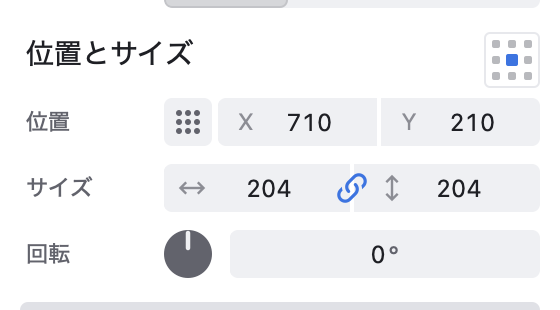
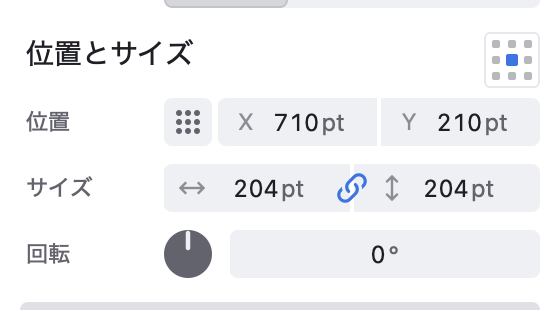
ガイドと作業記録を更新（いまの制限の6項目：複合パス・SVG/PDF・整列/ロック/スマートガイド・不透明度/グラデーション・文字の設定・単位）
Claude-Session: https://claude.ai/code/session_01QqFg8BnMqcqZtVewoFgnhn

diff --git a/docs/guide.html b/docs/guide.html
@@ -180,7 +180,7 @@ ol.legend li b {display: block; color: var(--fg); font-weight: 600}
       </ul>
       <h2>まとめる</h2>
       <ul>
-        <li><a href="#organize">レイヤー・ガイド・吸着</a></li>
+        <li><a href="#organize">レイヤー・吸着・整列</a></li>
         <li><a href="#combine">パスファインダー・ブレンド</a></li>
         <li><a href="#place">読み込み・画像</a></li>
         <li><a href="#export">アートボード・書き出し</a></li>
@@ -288,8 +288,9 @@ ol.legend li b {display: block; color: var(--fg); font-weight: 600}
             <tr><td>クリックして打つ</td><td>クリックした所が1行目の基準線。日本語入力もそのまま使えます</td></tr>
             <tr><td><kbd>Esc</kbd> / ほかをクリック</td><td>確定。空なら何も残らない</td></tr>
             <tr><td>選択ツールで文字をダブルクリック</td><td>打ち直す</td></tr>
-            <tr><td>右パネル</td><td>フォント（検索できる）・サイズ・行送り</td></tr>
-            <tr><td><kbd>⇧</kbd><kbd>⌘</kbd><kbd>O</kbd></td><td>アウトライン化（ただの形になり、打ち直せなくなる）</td></tr>
+            <tr><td>右パネル</td><td>フォント（検索できる）・サイズ・行送り・揃え（左・中央・右・均等）・字送り（1/1000 em）・ベースライン・カーニング</td></tr>
+            <tr><td>文字ツールでパスの線をクリック</td><td>パスに沿って打つ。文字とパスを選んで「パスに沿わせる」でも。パスを直すと文字もついてくる。右パネルで「パス上の位置」と「反対側」、「パスから外す」で普通の文字に戻る（パスを消しても戻る）</td></tr>
+            <tr><td><kbd>⇧</kbd><kbd>⌘</kbd><kbd>O</kbd></td><td>アウトライン化。文字ごとに複合パスになり、アンカーとハンドルを直せる（o や 8 の中は穴）。打ち直せなくなる</td></tr>
           </tbody></table></div>
           <p>文字の形にも塗り・線・外観ノードがそのまま効きます。</p>
         </div>
@@ -403,6 +404,9 @@ ol.legend li b {display: block; color: var(--fg); font-weight: 600}
             <tr><td>右パネルの「塗り」「線」</td><td>色見本と16進の欄。「なし — 追加」で付ける、<kbd>−</kbd> でなしにする</td></tr>
             <tr><td>色見本をクリック</td><td>色のパレット（色の面・色相・プリセット）</td></tr>
             <tr><td>色見本をドラッグ</td><td>その場で色の面が出て、離すと決まる。ドラッグ中に <kbd>H</kbd> <kbd>S</kbd> <kbd>V</kbd> <kbd>R</kbd> <kbd>G</kbd> <kbd>B</kbd> で動かす成分を切り替え</td></tr>
+            <tr><td>色の欄の「%」</td><td>その色の不透明度（塗りと線で別々）</td></tr>
+            <tr><td>「単色・線形・円形」</td><td>グラデーションにする。帯をクリックで色を足す、色の点を左右にドラッグで位置、下へドラッグで消す。「分岐点」で選んだ点の色と不透明度、「角度」で向き</td></tr>
+            <tr><td>ダイレクト選択（<kbd>A</kbd>）でパスを1つ選ぶ</td><td>キャンバスにグラデーションのつまみが出る。線形は始点・終点、円形は中心と半径をドラッグ（<kbd>Shift</kbd> で角度を刻む）。パスを動かす・回すとグラデーションもついてくる</td></tr>
           </tbody></table></div>
         </div>
         <p>数値の欄はどれも、左右にドラッグして値を変えられます。<kbd>Option</kbd> で1/10の細かさ、<kbd>Shift</kbd> で10倍。クリックすれば数字や式を打てます。</p>
@@ -467,7 +471,7 @@ ol.legend li b {display: block; color: var(--fg); font-weight: 600}
       </section>
 
       <section id="organize">
-        <header><p class="eyebrow">まとめる</p><h2>レイヤー・ガイド・吸着</h2></header>
+        <header><p class="eyebrow">まとめる</p><h2>レイヤー・吸着・整列</h2></header>
         <div class="block">
           <div class="head"><h3>レイヤーとフォルダ</h3></div>
           <div class="scroll"><table><tbody>
@@ -475,6 +479,7 @@ ol.legend li b {display: block; color: var(--fg); font-weight: 600}
             <tr><td>行をドラッグ</td><td>重ね順を変える・フォルダへ出し入れ（フォルダの中にフォルダも置ける）</td></tr>
             <tr><td>行をダブルクリック</td><td>名前を変える</td></tr>
             <tr><td>目のマーク</td><td>表示・非表示（非表示は書き出されない）</td></tr>
+            <tr><td>鍵のマーク（目の隣）/ <kbd>⌘</kbd><kbd>2</kbd> / <kbd>⌥</kbd><kbd>⌘</kbd><kbd>2</kbd></td><td>ロック / すべて解除。ロックした物は描かれ書き出されるが、キャンバスで選ぶ・動かす・直すことはできない。フォルダのロックは中身すべてに効く</td></tr>
             <tr><td>右クリック →「重ね順」</td><td>最前面・前面・背面・最背面</td></tr>
           </tbody></table></div>
         </div>
@@ -483,10 +488,19 @@ ol.legend li b {display: block; color: var(--fg); font-weight: 600}
           <div class="scroll"><table><tbody>
             <tr><td>定規からキャンバスへドラッグ</td><td>ガイドを引く。定規へ戻すと消える</td></tr>
             <tr><td><kbd>⌘</kbd><kbd>5</kbd> / <kbd>⌥</kbd><kbd>⌘</kbd><kbd>5</kbd></td><td>選んだパスをガイドにする / 戻す（細い線で表示され、書き出されない）</td></tr>
-            <tr><td>吸着バー（キャンバス左下）</td><td>ガイド・グリッド・接線・法線に吸着するか</td></tr>
+            <tr><td>吸着バー（キャンバス左下）</td><td>スマート・ガイド・グリッド・接線・法線に吸着するか</td></tr>
+            <tr><td>スマートガイド <kbd>⌘</kbd><kbd>U</kbd></td><td>動かす・拡大縮小・アンカーを引くとき、ほかの物やアートボードの端と中心に吸い付き、マゼンタの線が出る</td></tr>
             <tr><td><kbd>⌘</kbd><kbd>'</kbd> / <kbd>⌘</kbd><kbd>;</kbd></td><td>グリッドを表示して吸着 / ガイドに吸着</td></tr>
             <tr><td>ドラッグ中に <kbd>Ctrl</kbd></td><td>一時的に吸着しない</td></tr>
             <tr><td>右パネルの「グリッド・ガイド」タブ</td><td>グリッドの間隔、<kbd>Shift</kbd> で刻む角度</td></tr>
+          </tbody></table></div>
+        </div>
+        <div class="block">
+          <div class="head"><h3>整列・分布</h3></div>
+          <div class="scroll"><table><tbody>
+            <tr><td>右パネル「位置とサイズ」の下</td><td>整列（左・左右中央・右・上・上下中央・下）と分布（中心を等間隔・間を等しく）。1回で取り消せる</td></tr>
+            <tr><td>基準</td><td>選択範囲 / キー（最後にクリックした物。枠が太くなる。「間隔」で隙間を数値で） / アートボード。1つだけ選んでいるときはアートボードに揃える</td></tr>
+            <tr><td>まとまりで動くもの</td><td>中身を全部選んだフォルダ、両端を選んだブレンド、複合パス</td></tr>
           </tbody></table></div>
         </div>
       </section>
@@ -494,7 +508,8 @@ ol.legend li b {display: block; color: var(--fg); font-weight: 600}
       <section id="combine">
         <header><p class="eyebrow">まとめる</p><h2>パスファインダー・ブレンド</h2></header>
         <div class="grid2">
-          <div class="cell"><h3>パスファインダー</h3><p>2本以上選ぶと右パネルに6つのボタン：合体・前面で型抜き・背面で型抜き・交差・中マド・分割。前後は重ね順で決まり、外観は焼き込まれます。</p></div>
+          <div class="cell"><h3>パスファインダー</h3><p>2本以上選ぶと右パネルに6つのボタン：合体・前面で型抜き・背面で型抜き・交差・中マド・分割。前後は重ね順で決まり、外観は焼き込まれます。結果は曲線のパスになり、穴があれば複合パスになります（アンカーを直せます）。</p></div>
+          <div class="cell"><h3>複合パス <kbd>⌘</kbd><kbd>8</kbd></h3><p>選んだ閉じたパスを1つの形にまとめ、重なりを穴にします。解除は <kbd>⌥</kbd><kbd>⇧</kbd><kbd>⌘</kbd><kbd>8</kbd>。選択ツールでは全体、ダイレクト選択では1本ずつ直せます。色や外観は全員で共有。右パネル「穴」で、重なりで穴にする（evenodd）か向きで決める（nonzero）かを選べます。前の版で作った折れ線の形は「編集できるパスにする」で曲線のパスになります。</p></div>
           <div class="cell"><h3>ブレンド <kbd>⌥</kbd><kbd>⌘</kbd><kbd>B</kbd></h3><p>2つのパスの間に段（標準5）を作ります。端の形・色・太さを変えると間も作り直されます。段数は右パネル。解除は <kbd>⌥</kbd><kbd>⇧</kbd><kbd>⌘</kbd><kbd>B</kbd>、「拡張」で普通のパスになります。</p></div>
         </div>
       </section>
@@ -504,7 +519,7 @@ ol.legend li b {display: block; color: var(--fg); font-weight: 600}
         <div class="block">
           <div class="scroll"><table><tbody>
             <tr><td><kbd>⇧</kbd><kbd>⌘</kbd><kbd>P</kbd> / ファイルをキャンバスへドロップ / 画像をペースト</td><td>SVG と画像（PNG・JPEG・HEIC など）を配置</td></tr>
-            <tr><td>SVG</td><td>形は編集できるパスに、文字は打ち直せる文字に。ファイル名のフォルダに入り、1回で取り消せる</td></tr>
+            <tr><td>SVG</td><td>形は編集できるパスに（穴のある形は複合パス）、文字は打ち直せる文字に。グラデーション・不透明度もそのまま。ファイル名のフォルダに入り、1回で取り消せる</td></tr>
             <tr><td>画像：右パネル「不透明度」</td><td>透かす</td></tr>
             <tr><td>画像：右パネル「抜き」</td><td>黒：暗いところほど透ける（光や炎の素材、Unmult）。白：白い紙が透けて線だけ残る（スキャンした線画）。元の画素はそのまま</td></tr>
             <tr><td>画像：右パネル「下絵にする」</td><td>なぞるための画像に。書き出されず、キャンバスでは選ばれない（レイヤー一覧から選ぶ）</td></tr>
@@ -529,7 +544,7 @@ ol.legend li b {display: block; color: var(--fg); font-weight: 600}
           <ol class="legend">
             <li data-key="target"><span><b>範囲</b>アートボード・選択・絵全体</span></li>
             <li data-key="boards"><span><b>書き出すアートボード</b>チェックしたものを1枚ずつ</span></li>
-            <li data-key="format"><span><b>形式</b>SVG・PNG・JPEG</span></li>
+            <li data-key="format"><span><b>形式</b>SVG・PDF・PNG・JPEG</span></li>
             <li data-key="scale"><span><b>倍率</b>1単位を何ピクセルにするか</span></li>
             <li data-key="background"><span><b>背景</b>透明・白（JPEG は白）</span></li>
             <li data-key="run"><span><b>出来上がりの大きさと書き出す</b>ピクセル数を確かめてから書き出す</span></li>
@@ -549,7 +564,9 @@ ol.legend li b {display: block; color: var(--fg); font-weight: 600}
           <div class="head"><h3>書き出し</h3><span class="key"><kbd>⌘</kbd><kbd>E</kbd></span></div>
           <div class="scroll"><table><tbody>
             <tr><td>範囲</td><td>アートボード（チェックしたものを1枚ずつ）・選択・絵全体。選択と絵全体は光彩などの効果まで含めた広さ</td></tr>
-            <tr><td>形式</td><td>SVG・PNG・JPEG</td></tr>
+            <tr><td>形式</td><td>SVG・PDF・PNG・JPEG。PDF はアートボードごとに1ページの1ファイル（大きさは 1単位＝1pt）</td></tr>
+            <tr><td>SVG と PDF の中身</td><td>パスは曲線のまま。太さが一定の線は線のまま（太さ・切り口・角の形も）、強弱のある線は輪郭を曲線で。フォルダはグループ（Illustrator・Inkscape ではレイヤー）。外観ノードを使ったパスは見た目どおりの形と画像。グラデーションと不透明度も入る</td></tr>
+            <tr><td>線（SVG・PDF）</td><td>線のまま / 輪郭にする（すべて塗りの形にする。どのソフトでも同じ見た目）</td></tr>
             <tr><td>倍率</td><td>1×〜4×（1単位を何ピクセルにするか）。下に出来上がりのピクセル数</td></tr>
             <tr><td>背景</td><td>透明・白（JPEG は白）</td></tr>
             <tr><td>保存先</td><td>1ファイルなら保存パネル、複数ならフォルダを選ぶ。名前は「ファイル名-アートボード名」</td></tr>
@@ -568,6 +585,7 @@ ol.legend li b {display: block; color: var(--fg); font-weight: 600}
             <tr><td><kbd>⌘</kbd><kbd>+</kbd> / <kbd>⌘</kbd><kbd>−</kbd></td><td>拡大 / 縮小</td></tr>
             <tr><td><kbd>⌥</kbd><kbd>⌘</kbd><kbd>N</kbd></td><td>ノードパネルを表示 / 隠す</td></tr>
             <tr><td><kbd>⌘</kbd><kbd>,</kbd></td><td>設定：ズームの速さと向き、ホイール（移動 / ズーム）、自動保存、テーマ、作品の背景、太さのつまみの常時表示</td></tr>
+            <tr><td>単位（定規の左上の角 / 設定「単位」）</td><td>pt・px・mm・cm・in・pc。書類ごとに保存され、新しい書類の単位は設定で決める。長さの欄・定規・アートボードが変わる。欄には 10mm や 1in + 2pt のように単位つきの式も打てる。1pt＝1px（72ppi）、文字サイズは pt のまま</td></tr>
             <tr><td>設定「自動保存」</td><td>間隔（オフ・1分・5分・10分）。保存していない変更を復元用のコピーに残し、アプリが落ちても次に開いたときに復元できる。「保存済みのファイルにも上書き保存する」をオンにすると、ファイル自体も自動で保存</td></tr>
           </tbody></table></div>
         </div>
@@ -601,6 +619,9 @@ ol.legend li b {display: block; color: var(--fg); font-weight: 600}
               <tr><td><kbd>⇧</kbd><kbd>⌘</kbd><kbd>O</kbd></td><td>アウトライン化</td></tr>
               <tr><td><kbd>⌥</kbd><kbd>⌘</kbd><kbd>B</kbd></td><td>ブレンドを作成</td></tr>
               <tr><td><kbd>⌘</kbd><kbd>5</kbd></td><td>ガイドにする</td></tr>
+              <tr><td><kbd>⌘</kbd><kbd>8</kbd> <kbd>⌥</kbd><kbd>⇧</kbd><kbd>⌘</kbd><kbd>8</kbd></td><td>複合パスを作成・解除</td></tr>
+              <tr><td><kbd>⌘</kbd><kbd>2</kbd> <kbd>⌥</kbd><kbd>⌘</kbd><kbd>2</kbd></td><td>ロック・すべて解除</td></tr>
+              <tr><td><kbd>⌘</kbd><kbd>U</kbd></td><td>スマートガイド</td></tr>
             </tbody></table></div>
           </div>
         </div>
@@ -611,12 +632,12 @@ ol.legend li b {display: block; color: var(--fg); font-weight: 600}
         <p>使う前に知っておくと困らないことです。どれも今後の改善の候補です。</p>
         <div class="note"><b>保存</b><span>自動保存は既定で5分ごとに「復元用のコピー」を残します。ファイル自体は <kbd>⌘</kbd><kbd>S</kbd> するまで変わりません（設定でファイルへの上書きも選べます）。</span></div>
         <ul class="plain">
-          <li>パスファインダーの結果・アウトライン化した文字・穴のある SVG の形は、細かい折れ線の形になり、アンカーを直せません。</li>
-          <li>SVG の書き出しは見た目どおりの輪郭（塗りの形）で出ます。曲線・線の設定・フォルダの構造は残りません。PDF の書き出しはありません。</li>
-          <li>整列・分布、ロック、他の物への吸着（スマートガイド）はまだありません。</li>
-          <li>色ごとの不透明度とグラデーションはありません（不透明度は外観ノードで付けられます）。SVG のグラデーションは最初の色で読み込まれます。</li>
-          <li>文字の設定はフォント・サイズ・行送りだけです（揃え・字送り・パス上文字はありません）。</li>
-          <li>大きさの単位は1種類（1単位＝1pt／1px）です。</li>
+          <li>PDF の中の文字は輪郭の形です（打ち直せる文字としては入りません）。PDF では、線のグラデーションは最初の色になり、グラデーションの途中の不透明度は平均になります。</li>
+          <li>SVG の読み込みで、グラデーションの繰り返し（reflect・repeat）、円形の焦点、パターンには対応していません。</li>
+          <li>パス上文字は、パスの角丸を無視してアンカーとハンドルに沿います。パスの端を越えた文字はまっすぐ続きます。打ち直しは、パスの始まりに出るまっすぐな欄で行います。</li>
+          <li>複合パス同士のブレンドはできません。</li>
+          <li>スマートガイドは、ペンで描いている途中・アートボードの移動・回転では効きません。距離の表示はありません。</li>
+          <li>外観ノードの長さ（オフセット・ぼかしなど）は単位の切り替えに関係なく、書類の単位（pt）のままです。</li>
         </ul>
       </section>
 
@@ -624,7 +645,7 @@ ol.legend li b {display: block; color: var(--fg); font-weight: 600}
   </main>
 </div>
 
-<!-- regions:start --><script type="application/json" id="regions">{"overview":{"w":1400,"h":900,"regions":[{"key":"topbar","x":0,"y":0,"w":100,"h":4},{"key":"palette","x":2,"y":7.11,"w":2.71,"h":27.22},{"key":"canvas","x":2.86,"y":8.44,"w":74.21,"h":51},{"key":"snap","x":2,"y":59.44,"w":15.7,"h":3.33},{"key":"zoom","x":71.19,"y":60.56,"w":8.17,"h":2.44},{"key":"layers","x":80,"y":4,"w":20,"h":22.22},{"key":"inspector","x":80,"y":29.56,"w":20,"h":56.78},{"key":"nodes","x":0,"y":64,"w":79.93,"h":33.33},{"key":"status","x":0,"y":97.33,"w":100,"h":2.67}]},"tools":{"w":86,"h":293,"regions":[{"key":"select","x":33.72,"y":19.11,"w":32.56,"h":9.56},{"key":"direct","x":33.72,"y":29.35,"w":32.56,"h":9.56},{"key":"pen","x":33.72,"y":39.59,"w":32.56,"h":9.56},{"key":"shape","x":33.72,"y":49.83,"w":32.56,"h":9.56},{"key":"convert","x":33.72,"y":60.07,"w":32.56,"h":9.56},{"key":"text","x":33.72,"y":70.31,"w":32.56,"h":9.56},{"key":"artboard","x":33.72,"y":80.55,"w":32.56,"h":9.56}]},"width":{"w":600,"h":330,"regions":[{"key":"grip","x":5.93,"y":75.12,"w":4,"h":7.27},{"key":"core","x":72.29,"y":43.18,"w":3.33,"h":6.06},{"key":"end","x":87.67,"y":65.45,"w":4.67,"h":8.48},{"key":"anchor","x":45.17,"y":24.55,"w":3,"h":5.45},{"key":"handle","x":60.17,"y":18.48,"w":3,"h":5.45}]},"selection":{"w":294,"h":294,"regions":[{"key":"handle","x":81.63,"y":81.63,"w":6.12,"h":6.12},{"key":"rotate","x":86.05,"y":86.05,"w":6.8,"h":6.8},{"key":"pivot","x":47.28,"y":47.28,"w":5.44,"h":5.44}]},"position":{"w":280,"h":155,"regions":[{"key":"picker","x":85.36,"y":8.39,"w":12.14,"h":21.94},{"key":"position","x":29.29,"y":31.61,"w":67.14,"h":15.48},{"key":"size","x":29.29,"y":52.9,"w":67.14,"h":15.48},{"key":"rotate","x":29.29,"y":74.19,"w":67.14,"h":15.48}]},"nodes":{"w":1119,"h":300,"regions":[{"key":"picker","x":1.7,"y":5.33,"w":18.41,"h":6.67},{"key":"add","x":20.91,"y":5.33,"w":4.68,"h":6.67},{"key":"card","x":31.32,"y":23.67,"w":17.69,"h":8},{"key":"bypass","x":46.87,"y":24.5,"w":1.61,"h":6},{"key":"param","x":32.22,"y":41,"w":15.91,"h":8},{"key":"socket","x":48.3,"y":24.5,"w":1.61,"h":6},{"key":"output","x":50.98,"y":23.67,"w":17.69,"h":8}]},"artboards":{"w":1400,"h":456,"regions":[{"key":"name","x":0,"y":0,"w":4.54,"h":2.58},{"key":"frame","x":67.93,"y":101.1,"w":1.29,"h":3.95},{"key":"list","x":80,"y":6.14,"w":20,"h":37.72},{"key":"fields","x":85.86,"y":59.87,"w":13,"h":26.97},{"key":"add","x":81.57,"y":91.23,"w":9.91,"h":5.26}]},"export":{"w":466,"h":344,"regions":[{"key":"target","x":21.24,"y":22.67,"w":72.96,"h":6.98},{"key":"boards","x":6.44,"y":32.27,"w":87.77,"h":15.12},{"key":"format","x":21.24,"y":50,"w":72.96,"h":6.98},{"key":"scale","x":21.24,"y":59.59,"w":72.96,"h":6.98},{"key":"background","x":21.24,"y":69.19,"w":72.96,"h":6.98},{"key":"run","x":5.79,"y":86.92,"w":88.41,"h":6.98}]}}</script><!-- regions:end -->
+<!-- regions:start --><script type="application/json" id="regions">{"overview":{"w":1400,"h":900,"regions":[{"key":"topbar","x":0,"y":0,"w":100,"h":4},{"key":"palette","x":2,"y":7.11,"w":2.71,"h":27.22},{"key":"canvas","x":2.86,"y":8.44,"w":74.21,"h":51},{"key":"snap","x":2,"y":59.44,"w":19.89,"h":3.33},{"key":"zoom","x":71.19,"y":60.56,"w":8.17,"h":2.44},{"key":"layers","x":80,"y":4,"w":20,"h":22.22},{"key":"inspector","x":80,"y":29.56,"w":20,"h":60.11},{"key":"nodes","x":0,"y":64,"w":79.93,"h":33.33},{"key":"status","x":0,"y":97.33,"w":100,"h":2.67}]},"tools":{"w":86,"h":293,"regions":[{"key":"select","x":33.72,"y":19.11,"w":32.56,"h":9.56},{"key":"direct","x":33.72,"y":29.35,"w":32.56,"h":9.56},{"key":"pen","x":33.72,"y":39.59,"w":32.56,"h":9.56},{"key":"shape","x":33.72,"y":49.83,"w":32.56,"h":9.56},{"key":"convert","x":33.72,"y":60.07,"w":32.56,"h":9.56},{"key":"text","x":33.72,"y":70.31,"w":32.56,"h":9.56},{"key":"artboard","x":33.72,"y":80.55,"w":32.56,"h":9.56}]},"width":{"w":600,"h":330,"regions":[{"key":"grip","x":5.93,"y":75.12,"w":4,"h":7.27},{"key":"core","x":72.29,"y":43.18,"w":3.33,"h":6.06},{"key":"end","x":87.67,"y":65.45,"w":4.67,"h":8.48},{"key":"anchor","x":45.17,"y":24.55,"w":3,"h":5.45},{"key":"handle","x":60.17,"y":18.48,"w":3,"h":5.45}]},"selection":{"w":294,"h":294,"regions":[{"key":"handle","x":81.63,"y":81.63,"w":6.12,"h":6.12},{"key":"rotate","x":86.05,"y":86.05,"w":6.8,"h":6.8},{"key":"pivot","x":47.28,"y":47.28,"w":5.44,"h":5.44}]},"position":{"w":280,"h":155,"regions":[{"key":"picker","x":85.36,"y":8.39,"w":12.14,"h":21.94},{"key":"position","x":29.29,"y":31.61,"w":67.14,"h":15.48},{"key":"size","x":29.29,"y":52.9,"w":67.14,"h":15.48},{"key":"rotate","x":29.29,"y":74.19,"w":67.14,"h":15.48}]},"nodes":{"w":1119,"h":300,"regions":[{"key":"picker","x":1.7,"y":5.33,"w":18.41,"h":6.67},{"key":"add","x":20.91,"y":5.33,"w":4.68,"h":6.67},{"key":"card","x":31.32,"y":23.67,"w":17.69,"h":8},{"key":"bypass","x":46.87,"y":24.5,"w":1.61,"h":6},{"key":"param","x":32.22,"y":41,"w":15.91,"h":8},{"key":"socket","x":48.3,"y":24.5,"w":1.61,"h":6},{"key":"output","x":50.98,"y":23.67,"w":17.69,"h":8}]},"artboards":{"w":1400,"h":456,"regions":[{"key":"name","x":0,"y":0,"w":4.54,"h":2.58},{"key":"frame","x":67.93,"y":101.1,"w":1.29,"h":3.95},{"key":"list","x":80,"y":6.14,"w":20,"h":37.72},{"key":"fields","x":85.86,"y":59.87,"w":13,"h":26.97},{"key":"add","x":81.57,"y":91.23,"w":9.91,"h":5.26}]},"export":{"w":466,"h":344,"regions":[{"key":"target","x":21.24,"y":22.67,"w":72.96,"h":6.98},{"key":"boards","x":6.44,"y":32.27,"w":87.77,"h":15.12},{"key":"format","x":21.24,"y":50,"w":72.96,"h":6.98},{"key":"scale","x":21.24,"y":59.59,"w":72.96,"h":6.98},{"key":"background","x":21.24,"y":69.19,"w":72.96,"h":6.98},{"key":"run","x":5.79,"y":86.92,"w":88.41,"h":6.98}]}}</script><!-- regions:end -->
 <script>
 // numbered markers from the measured regions; hovering a marker or a list item lights both
 (() => {

diff --git a/done.md b/done.md
@@ -613,3 +613,17 @@
 - [x] 復元用のコピー：Mac は `~/Library/Application Support/PathWeaver/Recovery/recovery.json`、ブラウザは localStorage。保存せずに終わった（落ちた・強制終了した）次の起動で「復元しますか？」と聞く。復元した書類は未保存のまま（元のファイルは変わらない）。保存・「保存しない」で閉じる・破棄して開く・新規でコピーは消える — E2E（ブラウザ）。Mac での実際の落ち方からの復元は未確認
 - [x] 上のバーのファイル名の横に「自動保存 12:34」
 - 使い方ガイドの「いまの制限」から自動保存なしを外し、設定の節に追記。アートボードパネルのタブの表示崩れ（見出しのアイコン用の幅が当たっていた）を直した
+
+## 2026-11-11 「いまの制限」をすべて開発（6本を別ブランチで並行 → `codex/unslop-ui` へ統合）
+
+依頼：「いまの制限　の部分全部開発しておいて」
+
+- [x] **編集できる複合パス**（`feat/compound`）：複合パス＝閉じたパスの集まり（`Stroke.compound`、`fill_rule` nonzero/evenodd）。既存の編集操作がそのまま各メンバーに効く。パスファインダーの結果は折れ線から曲線へ当てはめ直し（角は角のまま）、穴があれば複合パス。アウトライン化は文字ごとの複合パス（Mac は CoreText の曲線そのまま、揃え・字送り・パス上の文字は今の配置の輪郭を曲線に）。SVG の穴のある形も曲線のまま。⌘8 / ⌥⇧⌘8、右パネル「複合パス」（穴・作成・解除・編集できるパスにする）。古い折れ線の形は「編集できるパスにする」で変換 — cargo・E2E `compound.spec.ts`
+- [x] **SVG・PDF 書き出し**（`feat/export`）：SVG はフォルダ＝グループ（Inkscape のレイヤー）、一定幅の線は線のまま（cap・join・miter）、強弱のある線は輪郭を曲線で（自前の当てはめ `curve_fit.rs`）、外観ノードのパスは見た目どおり。PDF は自前の書き出し（`pdf.rs`、Flate、画像埋め込み、アートボードごとに1ページ）。ダイアログに PDF と「線のまま／輪郭にする」 — cargo・E2E `export.spec.ts`
+- [x] **整列・分布・ロック・スマートガイド**（`feat/arrange`）：右パネル「位置とサイズ」の下に整列6・分布4、基準（選択範囲・キー・アートボード）、キーのときは間隔。ロック（`locked`、⌘2 / ⌥⌘2、レイヤー一覧の鍵）。スマートガイド（端と中心、マゼンタの線、⌘U、既定オン） — E2E `arrange.spec.ts`
+- [x] **色ごとの不透明度とグラデーション**（`feat/paint`）：`fill_opacity` / `edge_opacity`、`fill_gradient` / `edge_gradient`（線形・円形、文書座標の行列で変形についてくる）。右パネルの帯で色の点を編集、ダイレクト選択でキャンバスのつまみ。SVG 読み込みでグラデーション・各種不透明度を読む。ブレンドで補間。ラスター系ノードも塗る — cargo・E2E `paint.spec.ts`
+- [x] **文字の設定**（`feat/type`）：揃え（左・中央・右・均等）、字送り（1/1000 em）、カーニング、ベースライン、パス上文字（`on_path`、文字ツールでパスの線をクリック／「パスに沿わせる」、位置・反対側、パスを直すと追従、パスが消えると普通の文字に） — E2E `type.spec.ts`
+- [x] **単位**（`feat/units`）：pt・px・mm・cm・in・pc。書類ごと（`Document.units`）、新しい書類の既定は設定。長さの欄・定規・アートボード・書き出しの大きさ表示が追従、`10mm + 2pt` のような式も打てる。中の数値は pt のまま — E2E `units.spec.ts`
+- [x] 統合時のつなぎ込み：書き出し（SVG の gradient 要素、PDF のシェーディング、不透明度）、複合パスの書き出し（メンバーの曲線を1つのパス＋fill-rule、PDF は f*/W*）、複合パスのメンバーで不透明度・グラデーションも共有、整列で複合パスを1つとして扱う、整列と複合パスの変数名の衝突でビルドが落ちていたのを修正
+- 確認：cargo 130、vitest 96、E2E 112 すべて通過。Mac アプリをビルドして自己テスト通過（ネイティブの文字の組み方も）。ガイド（いまの制限・各節・図）を更新
+- 未確認（実機）：CoreText の曲線のままのアウトライン化、Mac メニューの ⌘2 / ⌘8 / ⌘U、PDF を Illustrator などで開いたときの見え方
